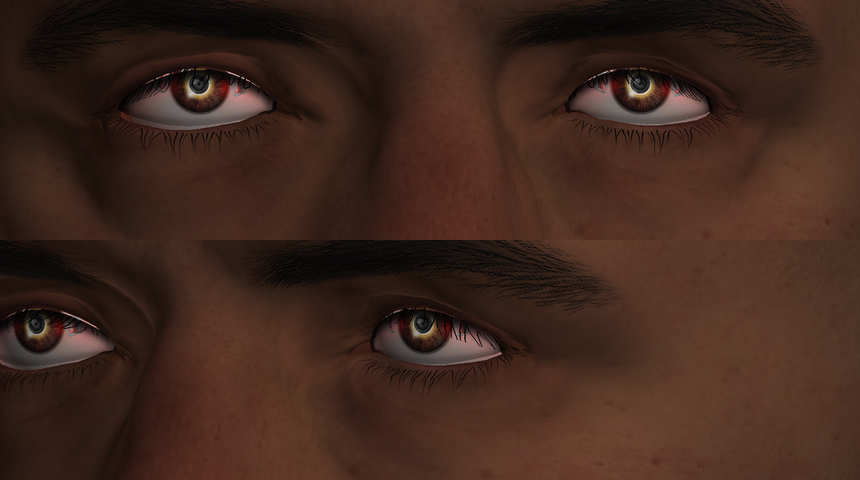
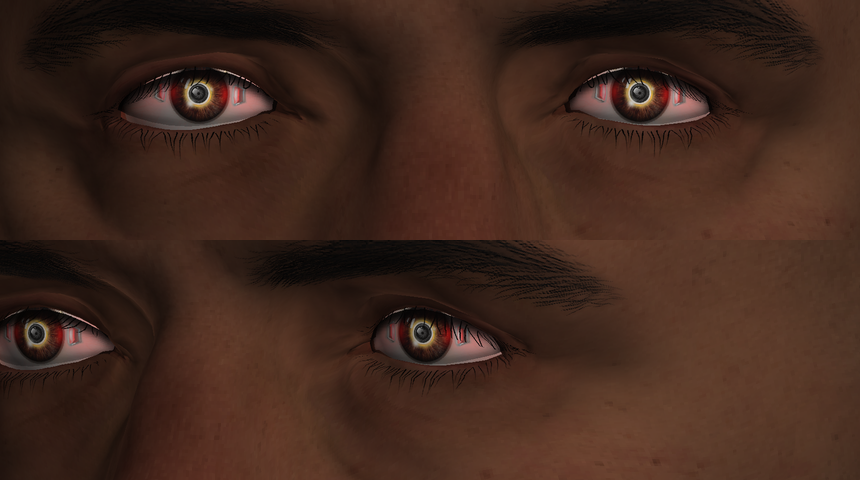
STAGING: iris lowered off the upper lid, faint emissive glow pass
Claude-Session: https://claude.ai/code/session_019USJoTMPWkGMgSSejE2vqd

diff --git a/tools/head1.py b/tools/head1.py
@@ -50,14 +50,16 @@ def basemorph(fn,w):
 import names
 _ea=modres.AR['HighTech_Eyes_pack']; _ef={f['hash']:f for f in _ea.files}
 EYE=xbm.load(_ea.extract(_ef[names.fnv('base\\eyes\\textures\\eye_14_diffuse.xbm')])).convert('RGBA'); EYE.save('/home/claude/work/staging/eye14.png')
-def bake_eye(im,iris_size=0.7373740077018738,r_src=0.165,r_out=0.30):
+# dv: iris centred 1.3 mm lower (v grows upward on the eyeball) so the upper lid doesn't cut it
+def bake_eye(im,iris_size=0.7373740077018738,r_src=0.165,r_out=0.30,dv=0.040):
     # emulate eye_gradient.mt for a flat bake: iris shrunk by IrisSize (radial remap, sclera kept),
     # limbal ring, cornea 'Blick' reflection and a wet sheen
     a=np.asarray(im).astype(np.float32); Hh,Ww=a.shape[:2]
-    yy,xx=np.mgrid[0:Hh,0:Ww].astype(np.float32); u=(xx+0.5)/Ww-0.5; v=(yy+0.5)/Hh-0.5; r=np.sqrt(u*u+v*v)+1e-9
+    yy,xx=np.mgrid[0:Hh,0:Ww].astype(np.float32); u=(xx+0.5)/Ww-0.5; v=(yy+0.5)/Hh-0.5+dv; r=np.sqrt(u*u+v*v)+1e-9
     r_new=r_src*iris_size
     rs=np.where(r<r_new, r/iris_size, np.where(r<r_out, r_src+(r-r_new)*(r_out-r_src)/(r_out-r_new), r))
     sx=np.clip((0.5+u*rs/r)*Ww-0.5,0,Ww-1); sy=np.clip((0.5+v*rs/r)*Hh-0.5,0,Hh-1)
+    sy=np.where(r<r_out,sy,np.clip(yy,0,Hh-1))
     x0=np.floor(sx).astype(int); y0=np.floor(sy).astype(int); x1=np.minimum(x0+1,Ww-1); y1=np.minimum(y0+1,Hh-1); fx=(sx-x0)[...,None]; fy=(sy-y0)[...,None]
     o=a[y0,x0]*(1-fx)*(1-fy)+a[y0,x1]*fx*(1-fy)+a[y1,x0]*(1-fx)*fy+a[y1,x1]*fx*fy
     limb=np.exp(-((r-r_new)/(0.012))**2)*0.45; o[...,:3]*=(1-limb[...,None])        # dark limbal ring
@@ -66,8 +68,12 @@ def bake_eye(im,iris_size=0.7373740077018738,r_src=0.165,r_out=0.30):
     g2=np.exp(-(((u-0.05)**2+(v-0.02)**2)/(2*0.006**2)))*0.5                     # small secondary blick
     sh=np.exp(-(r/(r_new*1.15))**8)*0.10                                         # wet cornea sheen
     hl=np.clip(g1*0.85+g2+sh,0,1)[...,None]; o[...,:3]=o[...,:3]*(1-hl)+255*hl
+    # emission: the saturated red/amber hues of the implant iris + brackets glow faintly
+    mx=o[...,:3].max(-1); mn=o[...,:3].min(-1); sat=(mx-mn)/(mx+1e-6)
+    em=np.clip((sat-0.45)/0.4,0,1)*np.clip((mx-110)/120,0,1)*(r<r_out*0.95)
+    global EYE_EMIT; EYE_EMIT=Image.fromarray(np.dstack([o[...,:3]*em[...,None],np.full(em.shape,255)]).astype(np.uint8),'RGBA')
     return Image.fromarray(np.clip(o,0,255).astype(np.uint8),'RGBA')
-EYE=bake_eye(EYE); EYE.save('/home/claude/work/staging/eye14_baked.png')
+EYE=bake_eye(EYE); EYE_EMIT.save('/home/claude/work/staging/eye14_emit.png'); EYE.save('/home/claude/work/staging/eye14_baked.png')
 EM,ep=basemorph('he_000_pma__morphs.morphtarget',W)
 def fit_sphere(q):
     A=np.c_[2*q,np.ones(len(q))]; b=(q**2).sum(1); x=np.linalg.lstsq(A,b,rcond=None)[0]; c=x[:3]; return c,np.sqrt(x[3]+c@c)
@@ -90,7 +96,7 @@ for i,s in enumerate(EM['geo']['subs']):
         _l=Image.open('/home/claude/work/tex/base/eyelashes_ma_01_lod1.png'); _L=np.asarray(_l.convert('L')).astype(float); _al=np.asarray(_l)[...,3].astype(float) if _l.mode=='RGBA' else np.clip(_L/max(_L.max(),1)*1.15,0,1)*255
         LASH=Image.fromarray(np.dstack([np.full(_L.shape,14),np.full(_L.shape,12),np.full(_L.shape,12),_al]).astype(np.uint8),'RGBA')
         parts.append(dict(pos=ep[i],idx=s['idx'],uv=s['uv0'],tex=LASH,alpha=2))
-    else: parts.append(dict(pos=ep[i],idx=s['idx'],uv=s['uv0'],tex=EYE,alpha=0))
+    else: parts.append(dict(pos=ep[i],idx=s['idx'],uv=s['uv0'],tex=EYE,alpha=0,emit=EYE_EMIT))
 BM,bp=basemorph('heb_000_pma__morphs.morphtarget',W)
 bw=np.asarray(xbm.load(cr2w.load_loose('/mnt/user-data/uploads/characters/common/character_customisation_items/eyebrows/textures/heb__base_d08.xbm')).convert('RGBA')).astype(float)
 g=bw[...,:3].mean(-1,keepdims=True)/255                      # hair strand shading, black_carbon tint

diff --git a/tools/glowview.py b/tools/glowview.py
@@ -1,0 +1,20 @@
+import numpy as np, render
+from PIL import Image, ImageFilter
+def view(parts, yaw=0.0, size=(700,900), focus=None, strength=0.7, radius=None, **kw):
+    """normal render + emission pass: parts with 'emit' draw their emission map unlit, everything else
+    draws black (so it still occludes); the pass is bloomed and added (faint glow around the hues)."""
+    base=render.view(parts,yaw=yaw,size=size,focus=focus,**kw)
+    if not any('emit' in p for p in parts): return base
+    ep=[]
+    for p in parts:
+        q=dict(pos=p['pos'],idx=p['idx'],uv=p.get('uv'))
+        if 'emit' in p: q['tex']=p['emit']; q['alpha']=0
+        elif p.get('alpha',0)==2: continue               # decals don't occlude light
+        else: q['color']=(0,0,0)
+        ep.append(q)
+    e=np.asarray(render.view(ep,yaw=yaw,size=size,focus=focus,bg=(0,0,0),light=(0,-1,0),**kw)).astype(np.float32)
+    r=radius or max(2,size[0]//180)
+    bloom=np.asarray(Image.fromarray(e.astype(np.uint8)).filter(ImageFilter.GaussianBlur(r))).astype(np.float32)
+    wide=np.asarray(Image.fromarray(e.astype(np.uint8)).filter(ImageFilter.GaussianBlur(r*3))).astype(np.float32)
+    out=np.asarray(base).astype(np.float32)+strength*(0.35*e+0.9*bloom+0.6*wide)
+    return Image.fromarray(np.clip(out,0,255).astype(np.uint8))
